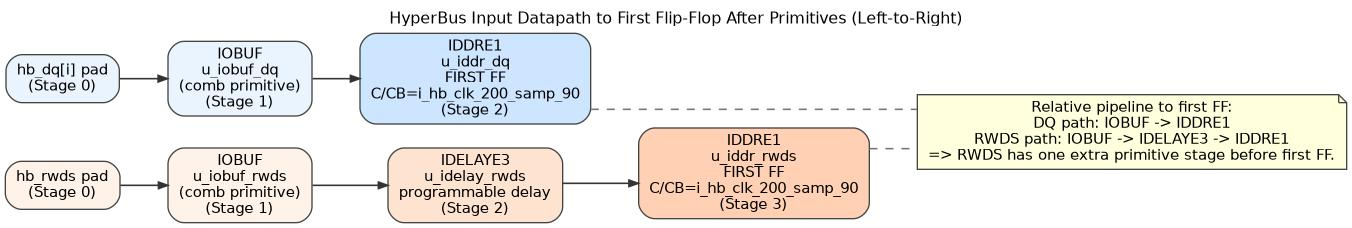
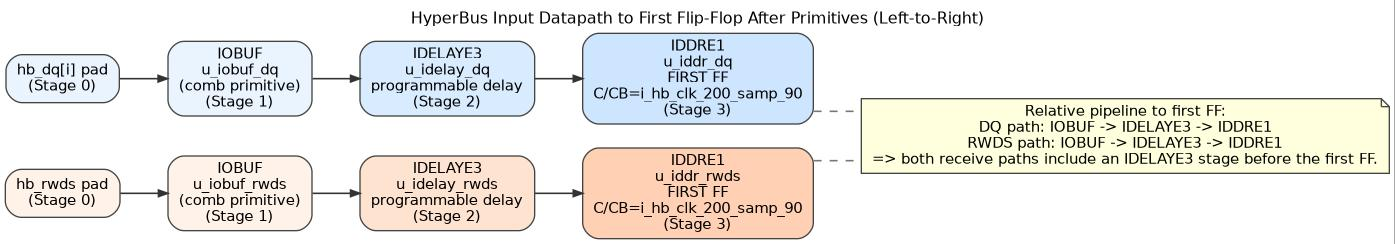
Update PHY input delay path artifacts and docs

diff --git a/software/hyperbus_odly.c b/software/hyperbus_odly.c
@@ -290,10 +290,14 @@ int hb_odly_sweep_to_midpoint(uintptr_t base_addr,
 {
     /* Return codes: 0=success, -3=no match found, -4=window end not found, <0=helper failure. */
     int rc;
+    int id0_valid;
+    uint32_t match_run_count;
     uint16_t cntvalue;
     uint16_t cntvalue_min;
     uint16_t cntvalue_max;
     uint16_t cntvalue_mid;
+    uint16_t cntvalue_delta;
+    uint16_t cntvalue_prev_valid;
     uint32_t cr0;
     uint32_t id0;
     uint32_t err_status;
@@ -304,6 +308,7 @@ int hb_odly_sweep_to_midpoint(uintptr_t base_addr,
     cr0 &= ~HB_CR0_DRIVE_STRENGTH_MASK;
     cr0 |= HB_CR0_DRIVE_STRENGTH_46_OHM;
     hb_reg_write(base_addr, HB_CR0_OFFSET, cr0);
+    match_run_count = 0U;
 
     for (;;) {
         rc = hb_odly_sample_status(base_addr, &cntvalue, &id0, &err_status,
@@ -313,13 +318,20 @@ int hb_odly_sweep_to_midpoint(uintptr_t base_addr,
         }
 
         hb_odly_print_status(cntvalue, id0, err_status, axif_rwds_cntr, axil_rwds_cntr);
+        id0_valid = ((err_status & HB_ERR_STATUS_TIMEOUT) == 0U);
         if ((err_status & HB_ERR_STATUS_TIMEOUT) != 0U) {
             hb_reg_write(base_addr, HB_ERR_STATUS_OFFSET, HB_ERR_STATUS_TIMEOUT);
         }
 
-        if (id0 == HB_ODLY_ID0_MATCH_VALUE) {
-            cntvalue_min = cntvalue;
-            break;
+        if (id0_valid && (id0 == HB_ODLY_ID0_MATCH_VALUE)) {
+            match_run_count++;
+            if (match_run_count >= 4U) {
+                cntvalue_min = (uint16_t)((cntvalue - 3U) & HB_ODLY_MASK_9BIT);
+                cntvalue_prev_valid = cntvalue;
+                break;
+            }
+        } else {
+            match_run_count = 0U;
         }
 
         if (cntvalue > HB_ODLY_SWEEP_GUARD_MAX) {
@@ -345,22 +357,25 @@ int hb_odly_sweep_to_midpoint(uintptr_t base_addr,
         }
 
         hb_odly_print_status(cntvalue, id0, err_status, axif_rwds_cntr, axil_rwds_cntr);
+        id0_valid = ((err_status & HB_ERR_STATUS_TIMEOUT) == 0U);
         if ((err_status & HB_ERR_STATUS_TIMEOUT) != 0U) {
             hb_reg_write(base_addr, HB_ERR_STATUS_OFFSET, HB_ERR_STATUS_TIMEOUT);
         }
 
-        if (id0 != HB_ODLY_ID0_MATCH_VALUE) {
-            cntvalue_max = (uint16_t)((cntvalue - 1U) & HB_ODLY_MASK_9BIT);
+        if (!id0_valid || (id0 != HB_ODLY_ID0_MATCH_VALUE)) {
+            cntvalue_max = cntvalue_prev_valid;
             break;
         }
+
+        cntvalue_prev_valid = cntvalue;
 
         if (cntvalue > HB_ODLY_SWEEP_GUARD_MAX) {
             return -4;
         }
     }
 
-    cntvalue_mid = (uint16_t)((((uint32_t)cntvalue_max - (uint32_t)cntvalue_min) >> 1) +
-                              (uint32_t)cntvalue_min);
+    cntvalue_delta = (uint16_t)((uint32_t)cntvalue_max - (uint32_t)cntvalue_min);
+    cntvalue_mid = (uint16_t)(((uint32_t)cntvalue_delta >> 1) + (uint32_t)cntvalue_min);
 
     while (cntvalue > cntvalue_mid) {
         rc = hb_odly_dec(base_addr, 1);
@@ -376,8 +391,9 @@ int hb_odly_sweep_to_midpoint(uintptr_t base_addr,
         }
     }
 
-    xil_printf("ODLY_WINDOW cntvalue_min=0x%03x cntvalue_max=0x%03x cntvalue_mid=0x%03x\r\n",
-               (unsigned)cntvalue_min, (unsigned)cntvalue_max, (unsigned)cntvalue_mid);
+    xil_printf("ODLY_WINDOW cntvalue_min=0x%03x cntvalue_max=0x%03x cntvalue_delta=0x%03x cntvalue_mid=0x%03x\r\n",
+               (unsigned)cntvalue_min, (unsigned)cntvalue_max,
+               (unsigned)cntvalue_delta, (unsigned)cntvalue_mid);
 
     if (cntvalue_min_out != 0U) {
         *cntvalue_min_out = cntvalue_min;

diff --git a/vitis_ws3/hello_world/src/hyperbus_odly.c b/vitis_ws3/hello_world/src/hyperbus_odly.c
@@ -288,10 +288,14 @@ int hb_odly_sweep_to_midpoint(uintptr_t base_addr,
 {
     /* Return codes: 0=success, -3=no match found, -4=window end not found, <0=helper failure. */
     int rc;
+    int id0_valid;
+    uint32_t match_run_count;
     uint16_t cntvalue;
     uint16_t cntvalue_min;
     uint16_t cntvalue_max;
     uint16_t cntvalue_mid;
+    uint16_t cntvalue_delta;
+    uint16_t cntvalue_prev_valid;
     uint32_t cr0;
     uint32_t id0;
     uint32_t err_status;
@@ -302,6 +306,7 @@ int hb_odly_sweep_to_midpoint(uintptr_t base_addr,
     cr0 &= ~HB_CR0_DRIVE_STRENGTH_MASK;
     cr0 |= HB_CR0_DRIVE_STRENGTH_46_OHM;
     hb_reg_write(base_addr, HB_CR0_OFFSET, cr0);
+    match_run_count = 0U;
 
     for (;;) {
         rc = hb_odly_sample_status(base_addr, &cntvalue, &id0, &err_status,
@@ -311,13 +316,20 @@ int hb_odly_sweep_to_midpoint(uintptr_t base_addr,
         }
 
         hb_odly_print_status(cntvalue, id0, err_status, axif_rwds_cntr, axil_rwds_cntr);
+        id0_valid = ((err_status & HB_ERR_STATUS_TIMEOUT) == 0U);
         if ((err_status & HB_ERR_STATUS_TIMEOUT) != 0U) {
             hb_reg_write(base_addr, HB_ERR_STATUS_OFFSET, HB_ERR_STATUS_TIMEOUT);
         }
 
-        if (id0 == ID0_VALUE) {
-            cntvalue_min = cntvalue;
-            break;
+        if (id0_valid && (id0 == ID0_VALUE)) {
+            match_run_count++;
+            if (match_run_count >= 4U) {
+                cntvalue_min = (uint16_t)((cntvalue - 3U) & HB_ODLY_MASK_9BIT);
+                cntvalue_prev_valid = cntvalue;
+                break;
+            }
+        } else {
+            match_run_count = 0U;
         }
 
         if (cntvalue > HB_ODLY_SWEEP_GUARD_MAX) {
@@ -343,22 +355,25 @@ int hb_odly_sweep_to_midpoint(uintptr_t base_addr,
         }
 
         hb_odly_print_status(cntvalue, id0, err_status, axif_rwds_cntr, axil_rwds_cntr);
+        id0_valid = ((err_status & HB_ERR_STATUS_TIMEOUT) == 0U);
         if ((err_status & HB_ERR_STATUS_TIMEOUT) != 0U) {
             hb_reg_write(base_addr, HB_ERR_STATUS_OFFSET, HB_ERR_STATUS_TIMEOUT);
         }
 
-        if (id0 != ID0_VALUE) {
-            cntvalue_max = (uint16_t)((cntvalue - 1U) & HB_ODLY_MASK_9BIT);
+        if (!id0_valid || (id0 != ID0_VALUE)) {
+            cntvalue_max = cntvalue_prev_valid;
             break;
         }
+
+        cntvalue_prev_valid = cntvalue;
 
         if (cntvalue > HB_ODLY_SWEEP_GUARD_MAX) {
             return -4;
         }
     }
 
-    cntvalue_mid = (uint16_t)((((uint32_t)cntvalue_max - (uint32_t)cntvalue_min) >> 1) +
-                              (uint32_t)cntvalue_min);
+    cntvalue_delta = (uint16_t)((uint32_t)cntvalue_max - (uint32_t)cntvalue_min);
+    cntvalue_mid = (uint16_t)(((uint32_t)cntvalue_delta >> 1) + (uint32_t)cntvalue_min);
 
     while (cntvalue > cntvalue_mid) {
         rc = hb_odly_dec(base_addr, 1);
@@ -374,8 +389,9 @@ int hb_odly_sweep_to_midpoint(uintptr_t base_addr,
         }
     }
 
-    xil_printf("ODLY_WINDOW cntvalue_min=0x%03x cntvalue_max=0x%03x cntvalue_mid=0x%03x\r\n",
-               (unsigned)cntvalue_min, (unsigned)cntvalue_max, (unsigned)cntvalue_mid);
+    xil_printf("ODLY_WINDOW cntvalue_min=0x%03x cntvalue_max=0x%03x cntvalue_delta=0x%03x cntvalue_mid=0x%03x\r\n",
+               (unsigned)cntvalue_min, (unsigned)cntvalue_max,
+               (unsigned)cntvalue_delta, (unsigned)cntvalue_mid);
 
     if (cntvalue_min_out != 0U) {
         *cntvalue_min_out = cntvalue_min;

diff --git a/doc/hyperbus_phy_design_notes.md b/doc/hyperbus_phy_design_notes.md
@@ -27,11 +27,13 @@ required when the PHY changes.
 - DQ TX/RX:
   - Per-bit `ODDRE1` drives TX DDR data from `i_dq_o_d1/d2`.
   - Per-bit `IOBUF` controls tri-state with `i_dq_t`.
-  - Per-bit `IDDRE1` samples DQ on `i_hb_clk_200_samp_90`.
+  - Per-bit `IDELAYE3` applies programmable delay on the DQ receive path.
+  - Per-bit `IDDRE1` samples delayed DQ on `i_hb_clk_200_samp_90`.
   - PHY exports raw `IDDRE1` DQ samples; post-capture alignment is in the HB engine.
 - RWDS TX/RX:
   - `ODDRE1` + `IOBUF` for TX/IO direction control.
-  - `IDDRE1` for RWDS capture on `i_hb_clk_200_samp_90`.
+  - `IDELAYE3` applies programmable delay on the RWDS receive path.
+  - `IDDRE1` captures delayed RWDS on `i_hb_clk_200_samp_90`.
   - PHY exports raw RWDS `IDDRE1` samples; HB-engine alignment/debug taps are downstream.
 - Delay calibration:
   - `IDELAYCTRL` is instantiated.
@@ -60,8 +62,9 @@ Assumptions used by the current design/testbench:
 
 Current PHY exports raw `IDDRE1` capture outputs directly:
 
-- `IDDRE1.Q1/Q2 -> dq_q1_raw/dq_q2_raw`
+- `IOBUF -> IDELAYE3 -> IDDRE1.Q1/Q2 -> dq_q1_raw/dq_q2_raw`
 - `o_dq_q1/o_dq_q2` are direct exports of those raw samples
+- `IOBUF -> IDELAYE3 -> IDDRE1.Q1/Q2 -> rwds_q1_raw/rwds_q2_raw`
 - `o_rwds_q1/o_rwds_q2` are also direct exports of raw `IDDRE1` samples
 
 Required consequence in HB engine:

diff --git a/doc/theory_of_operation.md b/doc/theory_of_operation.md
@@ -271,7 +271,9 @@ For transmit:
 
 For receive:
 
-- `IDDRE1` samples DQ and RWDS on the 90-degree sample clock
+- `IOBUF` receives DQ and RWDS from the pads
+- `IDELAYE3` provides programmable input delay on both DQ and RWDS receive paths
+- `IDDRE1` samples the delayed DQ and RWDS signals on the 90-degree sample clock
 - the PHY exports the raw sampled values directly
 
 The PHY therefore captures bits, but it does not perform the final read-path
